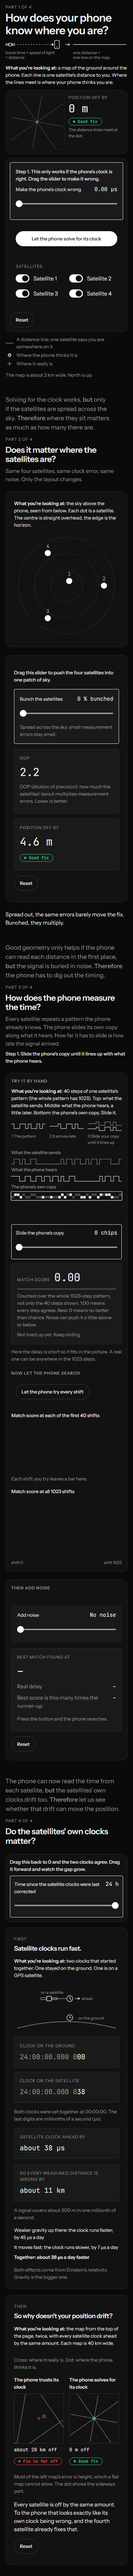
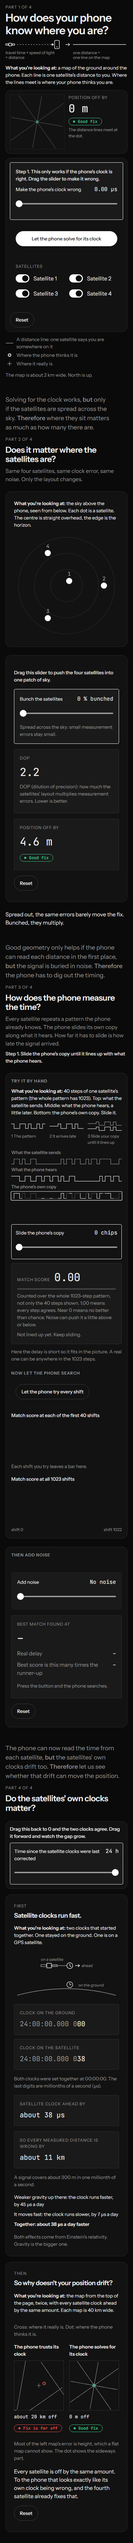
Icarus's fixes before merge: square-wave copy row, short score plots, phone load line
- The phone's own copy is drawn as a square wave like the two rows above it, one
  short line per step so each step can still be lit or dim.
- The two score plots are 60 px tall until the search runs, then grow to 96 and 120 px
  (no animation under reduced motion); Reset shrinks them again.
- Under the first screen's loading message: "The first visit can take up to a minute
  on a phone." Hidden once Python is ready.
- Tests for all three; annotations updated; after-screenshots retaken, plus a phone
  screenshot taken while loading.

diff --git a/web/step-signal.js b/web/step-signal.js
@@ -2,7 +2,7 @@
 // satellite's pattern by hand, then lets the phone try every shift. It draws and takes input;
 // the code, the received signal and every score come from Python (mechanism/signal.py).
 // The only arithmetic here is scaling numbers to pixels and one sign comparison per step
-// (is the copy's value on the same side of zero as the heard value?), which only picks a fill.
+// (is the copy's value on the same side of zero as the heard value?), which only picks a shade.
 import { whenPythonReady } from "./startup.js";
 import { say } from "./say.js";
 
@@ -57,8 +57,8 @@ const STYLE = `
 .signal-step .row-name { font: 500 13px var(--font-sans); fill: var(--text-muted); stroke: none; }
 .signal-step .sent { fill: none; stroke: var(--text-muted); stroke-width: 1.5; stroke-linejoin: miter; }
 .signal-step .received { fill: none; stroke: var(--text); stroke-width: 1.5; stroke-linejoin: miter; }
-.signal-step .cell { fill: var(--text); }
-.signal-step .cell.is-dim { fill: var(--text-muted); opacity: 0.4; }
+.signal-step .cell { fill: none; stroke: var(--text); stroke-width: 1.5; stroke-linecap: square; }
+.signal-step .cell.is-dim { stroke: var(--text-muted); opacity: 0.4; }
 .signal-step .copy-outline { fill: none; stroke: none; }
 .signal-step[data-guide="1"] .copy-outline { stroke: var(--accent); stroke-width: 1.5; }
 .signal-step .bracket { stroke: var(--text-muted); stroke-width: 1; fill: none; }
@@ -78,6 +78,10 @@ const STYLE = `
 .signal-step .plot-area .bar { fill: var(--text); }
 .signal-step .plot-full { height: 120px; }
 .signal-step .plot-close { height: 96px; }
+/* Short until the search runs, then they grow to full height. */
+.signal-step:not(.is-searched) .plot-full, .signal-step:not(.is-searched) .plot-close { height: 60px; }
+.signal-step .plot-area { transition: height 300ms ease; }
+.signal-step .plot-area svg, .signal-step [data-el="closeup-rest-wrap"] { height: 100%; }
 .signal-step .scores { fill: none; stroke: var(--text-muted); stroke-width: 1; vector-effect: non-scaling-stroke; }
 .signal-step [data-reveal="hidden"] { clip-path: inset(0 100% 0 0); }
 .signal-step [data-reveal="running"] { clip-path: inset(0 0 0 0); transition: clip-path var(--reveal-ms, 1000ms) linear; }
@@ -119,7 +123,7 @@ const STYLE = `
 .signal-step .btn:disabled, .signal-step input[type="range"]:disabled { opacity: 0.4; cursor: not-allowed; }
 .signal-step .btn:disabled:hover { border-color: var(--line-strong); }
 .signal-step input[type="range"] { touch-action: pan-y; }
-@media (prefers-reduced-motion: reduce) { .signal-step [data-reveal] { transition: none !important; } }
+@media (prefers-reduced-motion: reduce) { .signal-step [data-reveal], .signal-step .plot-area { transition: none !important; } }
 `;
 
 export function mountSignalStep(container) {
@@ -183,7 +187,7 @@ export function mountSignalStep(container) {
   function buildStaticParts() {
     const cells = [];
     for (let i = 0; i < signalConfig.windowChips; i += 1) {
-      cells.push(`<rect class="cell" x="${i * CHIP + 0.5}" width="${CHIP - 1}" height="${WAVE / signalConfig.receivedLimit}"/>`);
+      cells.push(`<path class="cell" d=""/>`);
     }
     el.copyCells.innerHTML = cells.join("");
     el.cells = [...el.copyCells.children];
@@ -250,6 +254,7 @@ export function mountSignalStep(container) {
       el.shift.value = shift;
       visited.clear();
       searched = false;
+      root.classList.remove("is-searched");
       guide = 1;
       el.msgSearch.textContent = "";
       el.bestDelay.textContent = "–";
@@ -321,6 +326,7 @@ export function mountSignalStep(container) {
   function search(atOnce) {
     if (!result) return;
     searched = true;
+    root.classList.add("is-searched"); // the two score plots grow to full height
     moveGuideTo(3);
     drawResult();
     drawCloseup();
@@ -465,17 +471,22 @@ export function mountSignalStep(container) {
     drawCopyRow();
   }
 
-  // The copy row: each step is a block, lit where its sign agrees with the heard value above it, dim where it does not.
+  // The copy row: a square wave like the rows above, drawn one step at a time so each step can be
+  // lit where its sign agrees with the heard value above it, and dim where it does not.
   function drawCopyRow() {
     if (!code || !received) return;
     const unit = WAVE / signalConfig.receivedLimit;
     let agree = 0;
+    let lastY = null;
     el.cells.forEach((cell, index) => {
       const value = copyValue(index);
       const lit = (value > 0) === (received[index] > 0);
       if (lit) agree += 1;
-      cell.setAttribute("y", value > 0 ? ROW_MID.copy - unit : ROW_MID.copy);
+      const y = ROW_MID.copy - value * unit;
+      const fromY = lastY === null ? y : lastY; // the step's upright edge starts at the previous step's height
+      cell.setAttribute("d", `M${index * CHIP},${fromY} V${y} H${(index + 1) * CHIP}`);
       cell.classList.toggle("is-dim", !lit);
+      lastY = y;
     });
     const x = shift * CHIP;
     el.bracket.style.display = shift === 0 ? "none" : "";

diff --git a/index.html b/index.html
@@ -174,6 +174,7 @@
         </div>
         <input id="clock" type="range" value="0" disabled>
         <p class="note" id="status" role="status" aria-live="polite">Loading the maths…</p>
+        <p class="note" id="load-note">The first visit can take up to a minute on a phone.</p>
       </div>
 
       <div class="stack guide-target" id="block-solve" style="gap: var(--s-2)">

diff --git a/web/first-screen.js b/web/first-screen.js
@@ -44,6 +44,7 @@ start();
 
 function start() {
   whenPythonReady(el.status, async (call) => {
+    $("load-note").hidden = true; // only needed while loading
     callPython = call;
     try {
       await buildScene();

diff --git a/tests/ui/test_signal_redesign.py b/tests/ui/test_signal_redesign.py
@@ -227,3 +227,38 @@ def test_looking_line_is_above_the_picture_and_nothing_overflows_at_phone_width(
     settle(page)
     assert page.evaluate("document.documentElement.scrollWidth <= window.innerWidth")
     assert site.errors == []
+
+
+# Icarus's two fixes before merging PR #83.
+COPY_POINTS = """() => [...document.querySelectorAll('#step-signal .cell')].map((cell) => cell.getAttribute('d'))"""
+SENT_HEIGHTS = """() => [...new Set(document.querySelector('#step-signal [data-el=sent-line]').getAttribute('points')
+  .split(' ').map((pair) => pair.split(',')[1]))].sort()"""
+
+
+def test_the_copy_row_is_a_square_wave_like_the_rows_above(open_page):
+    page = open_page().page
+    assert page.locator(f"{SIG} rect.cell").count() == 0  # no blocks
+    paths = page.evaluate(COPY_POINTS)
+    assert len(paths) == 40 and all(d.startswith("M") and " V" in d and " H" in d for d in paths)
+    # The copy at shift 0 is the pattern itself, so it uses the same two heights as the sent row, moved down to its own row.
+    copy_heights = sorted({float(d.split(" V")[1].split(" ")[0]) for d in paths})
+    sent_heights = sorted(float(y) for y in page.evaluate(SENT_HEIGHTS))
+    assert copy_heights[1] - copy_heights[0] == sent_heights[1] - sent_heights[0]
+    # Each step's upright edge starts where the step before it ended.
+    for before, after in zip(paths, paths[1:]):
+        assert before.split(" V")[1].split(" ")[0] == after.split(",")[1].split(" ")[0]
+
+
+PLOT_HEIGHTS = "() => [...document.querySelectorAll('#step-signal .plot-area')].map((node) => Math.round(node.getBoundingClientRect().height))"
+
+
+def test_score_plots_are_short_until_the_search_then_grow(open_page):
+    page = open_page().page
+    page.emulate_media(reduced_motion="reduce")  # no height animation, so the sizes can be read at once
+    assert page.evaluate(PLOT_HEIGHTS) == [60, 60]
+    press_search(page)
+    settle(page)
+    assert page.evaluate(PLOT_HEIGHTS) == [96, 120]
+    page.locator(el("reset")).click()
+    settle(page)
+    assert page.evaluate(PLOT_HEIGHTS) == [60, 60]

diff --git a/tests/ui/test_phone_layout.py b/tests/ui/test_phone_layout.py
@@ -167,3 +167,13 @@ def test_the_slider_stays_put_when_a_message_takes_over_the_hint_line(open_page)
     page.wait_for_timeout(600)
     assert page.locator("#msg-slider").text_content().startswith("Back to trusting")
     assert abs(box(page, "#clock")["top"] - start) <= 1
+
+
+def test_the_first_visit_note_shows_while_loading_and_goes_when_ready(open_page):
+    site = phone(open_page, cdn="cache", delay_ms=2000)  # the delay keeps Python loading while we look
+    page = site.page
+    page.wait_for_selector("#load-note", state="visible")
+    assert page.locator("#load-note").inner_text() == "The first visit can take up to a minute on a phone."
+    assert box(page, "#clock")["bottom"] <= SLIDER_LIMIT
+    site.wait_ready()
+    assert page.locator("#load-note").is_hidden()

diff --git a/docs/annotated/web/step-signal.js.md b/docs/annotated/web/step-signal.js.md
@@ -16,7 +16,7 @@ This file builds the third section of the page, "How does the phone measure the 
 ## In three lines
 1. When the page loads, `mountSignalStep` adds the section's HTML and style, waits for Python, and fetches the satellite's pattern once. After that, every change of the noise slider asks Python for the heard signal and for the score of every shift.
 2. Sliding the phone's copy (the slider, the keyboard, or dragging the row) does not call Python again. It only reads the score for that shift from the last answer. The search button reveals the scores of all shifts that Python had already worked out.
-3. The only arithmetic in JavaScript is turning values into pixel positions, one yes/no check per step (is the copy's value on the same side of zero as the heard value, which only decides how a block is shaded), and choosing "Found", "Barely found" or "Lost" by comparing numbers Python returned.
+3. The only arithmetic in JavaScript is turning values into pixel positions, one yes/no check per step (is the copy's value on the same side of zero as the heard value, which only decides how a step of the copy row is shaded), and choosing "Found", "Barely found" or "Lost" by comparing numbers Python returned.
 
 New to code? See [how to read code](../how-to-read-code.md). Ideas used here for the first time are explained where they appear.
 
@@ -29,9 +29,9 @@ New to code? See [how to read code](../how-to-read-code.md). Ideas used here for
 // satellite's pattern by hand, then lets the phone try every shift. It draws and takes input;
 // the code, the received signal and every score come from Python (mechanism/signal.py).
 // The only arithmetic here is scaling numbers to pixels and one sign comparison per step
-// (is the copy's value on the same side of zero as the heard value?), which only picks a fill.
+// (is the copy's value on the same side of zero as the heard value?), which only picks a shade.
 ```
-Five comments (lines starting with `//` are notes for people; the computer skips them). "Rung 3" is the third step of the page's story. `design.md` is the project's spec. They say that this file only draws and listens, that Python provides the pattern, the heard signal and every score, and that the only arithmetic here is scaling to pixels plus one check per step that only decides whether a block is drawn bright or dim. Nothing breaks without them.
+Five comments (lines starting with `//` are notes for people; the computer skips them). "Rung 3" is the third step of the page's story. `design.md` is the project's spec. They say that this file only draws and listens, that Python provides the pattern, the heard signal and every score, and that the only arithmetic here is scaling to pixels plus one check per step that only decides whether a step of the copy row is drawn bright or dim. Nothing breaks without them.
 
 ```js
 import { whenPythonReady } from "./startup.js";
@@ -258,14 +258,14 @@ The top wave (what the satellite sends): no fill, a grey line 1.5 units thick, w
 The middle wave (what the phone hears): the same but in the main text colour, so it stands out from the grey one.
 
 ```js
-.signal-step .cell { fill: var(--text); }
+.signal-step .cell { fill: none; stroke: var(--text); stroke-width: 1.5; stroke-linecap: square; }
 ```
-Each block of the phone's copy row is filled with the main text colour (bright).
+Each step of the phone's copy row is a short line (no fill), drawn like the two waves above it: 1.5 units thick in the main text colour (bright). `stroke-linecap: square` makes each line's ends stick out a little, so the corner where one step meets the next has no gap.
 
 ```js
-.signal-step .cell.is-dim { fill: var(--text-muted); opacity: 0.4; }
+.signal-step .cell.is-dim { stroke: var(--text-muted); opacity: 0.4; }
 ```
-A block that also has the class `is-dim` is grey and 40 percent solid (faded). Those are the steps where the copy disagrees with what the phone hears.
+A step that also has the class `is-dim` is grey and 40 percent solid (faded). Those are the steps where the copy disagrees with what the phone hears.
 
 ```js
 .signal-step .copy-outline { fill: none; stroke: none; }
@@ -356,7 +356,23 @@ Each bar of the close-up graph is filled with the text colour.
 .signal-step .plot-full { height: 120px; }
 .signal-step .plot-close { height: 96px; }
 ```
-The full graph's box is 120 px high and the close-up's is 96 px, the same as their pictures.
+The full graph's box is 120 px high and the close-up's is 96 px, the same as their pictures. These are the heights after the search.
+
+```js
+/* Short until the search runs, then they grow to full height. */
+.signal-step:not(.is-searched) .plot-full, .signal-step:not(.is-searched) .plot-close { height: 60px; }
+```
+Until the section has the class `is-searched` (`:not(...)` means "without"), both graph boxes are only 60 px high, so two mostly empty boxes do not take up the page. `search` adds the class and the reset button removes it.
+
+```js
+.signal-step .plot-area { transition: height 300ms ease; }
+```
+When the height changes, it changes smoothly over 300 ms instead of jumping.
+
+```js
+.signal-step .plot-area svg, .signal-step [data-el="closeup-rest-wrap"] { height: 100%; }
+```
+The pictures inside each box (and the box that wraps the close-up's bars) fill the box's height, so they shrink and grow with it. The pictures use `preserveAspectRatio="none"`, so they stretch to fit.
 
 ```js
 .signal-step .scores { fill: none; stroke: var(--text-muted); stroke-width: 1; vector-effect: non-scaling-stroke; }
@@ -544,9 +560,9 @@ When the mouse is over a disabled button, its outline does not change. A working
 A slider is an `input` of type `range`. On a touch screen, `pan-y` lets the finger scroll the page up and down when it starts on the slider, while left and right drags move the slider.
 
 ```js
-@media (prefers-reduced-motion: reduce) { .signal-step [data-reveal] { transition: none !important; } }
+@media (prefers-reduced-motion: reduce) { .signal-step [data-reveal], .signal-step .plot-area { transition: none !important; } }
 ```
-Some people set their device to avoid animation. This rule applies to them: the reveal's smooth change is switched off (`!important` makes sure this wins over the other rule). The JavaScript also skips the animation for them (see `startReveal`).
+Some people set their device to avoid animation. This rule applies to them: the reveal's smooth change and the graphs' growing are switched off (`!important` makes sure this wins over the other rule). The JavaScript also skips the animation for them (see `startReveal`).
 
 ```js
 `;
@@ -601,7 +617,7 @@ Makes a small helper called `find`. An arrow function (`(name) => ...`) is a sho
 ```
 Makes an object called `el` that holds every element the code will touch, each under a short name. Doing the search once here, instead of at every use, is quicker and keeps names in one place. In groups:
 - The top: `status` the "Loading the maths…" line, `hint` the guide hint, `clipNote` the warning that noise is cut off.
-- The rows picture: `rows` the whole drawing, `sentLine` and `receivedLine` the two waves, `copyCells` the group that will hold the 40 blocks of the copy row, `bracket`, `bracketLine` and `bracketText` the bracket under the copy row and its words, `copyHit` the invisible rectangle that catches dragging.
+- The rows picture: `rows` the whole drawing, `sentLine` and `receivedLine` the two waves, `copyCells` the group that will hold the 40 steps of the copy row, `bracket`, `bracketLine` and `bracketText` the bracket under the copy row and its words, `copyHit` the invisible rectangle that catches dragging.
 - The hand controls: `shift` the slider that slides the copy, `shiftValue` its words, `handScore` the match score, `meter` the bar under it, `handSentence` the sentence ("Lined up..." or "Not lined up yet...").
 - The search: `search` the button, `msgSearch` its message line.
 - The close-up graph: `closeupTries` holds the bars for shifts tried by hand, `closeupRest` the bars for all 40 shifts after the search, and `closeupRestWrap` is the box around the latter that the reveal animation clips.
@@ -747,7 +763,7 @@ Starts the function that builds the parts of the rows picture that are the same 
 ```js
     const cells = [];
 ```
-An empty list to collect the blocks of the copy row.
+An empty list to collect the steps of the copy row.
 
 ```js
     for (let i = 0; i < signalConfig.windowChips; i += 1) {
@@ -755,9 +771,9 @@ An empty list to collect the blocks of the copy row.
 A loop that counts `i` from 0 up to 39 (while `i` is less than 40, adding 1 each time round).
 
 ```js
-      cells.push(`<rect class="cell" x="${i * CHIP + 0.5}" width="${CHIP - 1}" height="${WAVE / signalConfig.receivedLimit}"/>`);
+      cells.push(`<path class="cell" d=""/>`);
 ```
-For each chip, adds the text of one block (an SVG `rect`, a rectangle) to the list. It sits at `i * 10 + 0.5` units from the left and is `10 - 1 = 9` wide, so that there is a small gap between neighbours. Its height is `18 / 2 = 9`. The up-or-down position is set later, because it depends on whether the copy's value is +1 or -1.
+For each chip, adds the text of one empty SVG `path` (a line drawn from a list of moves in its `d` attribute) to the list. The moves are filled in later by `drawCopyRow`, because where the line goes depends on the copy's values and the shift.
 
 ```js
     }
@@ -772,7 +788,7 @@ Joins the 40 texts with nothing between them and puts them into the copy row's g
 ```js
     el.cells = [...el.copyCells.children];
 ```
-Takes the 40 block elements just made and keeps them in a list called `el.cells` (`...` spreads the group's children into a plain list). `drawCopyRow` goes through this list.
+Takes the 40 step elements just made and keeps them in a list called `el.cells` (`...` spreads the group's children into a plain list). `drawCopyRow` goes through this list.
 
 ```js
     el.trueDelay.textContent = "–";
@@ -1010,9 +1026,10 @@ Puts the phone's copy back at 0 and moves its slider there.
 ```js
       visited.clear();
       searched = false;
+      root.classList.remove("is-searched");
       guide = 1;
 ```
-Forgets the shifts tried by hand, forgets that the search was pressed, and sends the guide back to step 1.
+Forgets the shifts tried by hand, forgets that the search was pressed, takes away the class that makes the two graphs tall (so they shrink back to 60 px), and sends the guide back to step 1.
 
 ```js
       el.msgSearch.textContent = "";
@@ -1226,8 +1243,9 @@ If there is no result from Python yet, do nothing.
 
 ```js
     searched = true;
+    root.classList.add("is-searched"); // the two score plots grow to full height
 ```
-Remembers that the search has been pressed. The drawing functions use this to show all the shifts.
+Remembers that the search has been pressed. The drawing functions use this to show all the shifts. It also gives the section the class `is-searched`, so the two graph boxes grow from 60 px to their full height.
 
 ```js
     moveGuideTo(3);
@@ -1743,9 +1761,10 @@ Draws the bottom row too.
 Closes `drawRows`.
 
 ```js
-  // The copy row: each step is a block, lit where its sign agrees with the heard value above it, dim where it does not.
+  // The copy row: a square wave like the rows above, drawn one step at a time so each step can be
+  // lit where its sign agrees with the heard value above it, and dim where it does not.
 ```
-A comment. Each of the 40 steps of the copy row is a block. A block is bright where the copy and the heard signal are on the same side of zero (both positive, or both not), and dim where they disagree. When the copy is lined up, most blocks are bright; when it is far off, about half are.
+A comment. The copy row is a square wave, like the two rows above it, but it is drawn as 40 separate short lines, one per step, so that each step can have its own shade. A step is bright where the copy and the heard signal are on the same side of zero (both positive, or both not), and dim where they disagree. When the copy is lined up, most steps are bright; when it is far off, about half are.
 
 ```js
   function drawCopyRow() {
@@ -1760,17 +1779,18 @@ If the pattern or the heard signal has not arrived yet, there is nothing to draw
 ```js
     const unit = WAVE / signalConfig.receivedLimit;
 ```
-The block height again: 18 / 2 = 9.
+How far the wave goes above or below its middle line: 18 / 2 = 9 units, the same as the row of what the satellite sends.
 
 ```js
     let agree = 0;
+    let lastY = null;
 ```
-A counter for how many steps agree. It starts at 0.
+A counter for how many steps agree, starting at 0, and `lastY`, the height where the previous step ended. It starts as `null` (nothing), because the first step has no step before it.
 
 ```js
     el.cells.forEach((cell, index) => {
 ```
-Goes through the 40 blocks, one at a time.
+Goes through the 40 steps, one at a time.
 
 ```js
       const value = copyValue(index);
@@ -1788,14 +1808,29 @@ Compares two yes/no answers: is the copy's value above 0, and is the heard value
 If it agrees, add 1 to the counter.
 
 ```js
-      cell.setAttribute("y", value > 0 ? ROW_MID.copy - unit : ROW_MID.copy);
+      const y = ROW_MID.copy - value * unit;
 ```
-Places the block. For +1 it sits above the middle line (its top at 162 - 9 = 153, so it fills from 153 to 162). For -1 it sits below (from 162 to 171).
+The height of this step. The copy row's middle line is at 162 (in an SVG picture, smaller numbers are higher up). For +1 the step is at 162 - 9 = 153, above the line; for -1 it is at 162 + 9 = 171, below it.
+
+```js
+      const fromY = lastY === null ? y : lastY; // the step's upright edge starts at the previous step's height
+```
+Where this step's line starts. For the first step there is no previous step (`lastY` is `null`), so it starts at its own height. Otherwise it starts at the height where the previous step ended, so the upright edge joins the two.
+
+```js
+      cell.setAttribute("d", `M${index * CHIP},${fromY} V${y} H${(index + 1) * CHIP}`);
+```
+Writes the step's moves into its `d` attribute: `M` moves to the step's left edge (`index * 10`) at the previous height, `V` draws straight up or down to this step's height (when the value did not change, this line has no length), and `H` draws across to the step's right edge (`(index + 1) * 10`). Worked example: step 3 with the previous step at +1 and this one at -1 gives `M30,153 V171 H40`, a drop from 153 to 171 and then a line across to 40.
 
 ```js
       cell.classList.toggle("is-dim", !lit);
 ```
-`toggle` adds the class `is-dim` when the second value is true and removes it when it is false. So the block is dim exactly when it is not lit.
+`toggle` adds the class `is-dim` when the second value is true and removes it when it is false. So the step is dim exactly when it is not lit.
+
+```js
+      lastY = y;
+```
+Remembers this step's height for the next step's upright edge.
 
 ```js
     });

diff --git a/docs/annotated/web/first-screen.js.md b/docs/annotated/web/first-screen.js.md
@@ -177,9 +177,10 @@ A comment used as a heading to group the functions that follow. The rows of dash
 ```js
 function start() {
   whenPythonReady(el.status, async (call) => {
+    $("load-note").hidden = true; // only needed while loading
     callPython = call;
 ```
-Starts the function `start`. It calls `whenPythonReady`, giving it two things: the status line (where loading words and errors are shown) and a function to run when Python is ready. That second function is written `async (call) => { ... }`. `async` means it may pause to wait for slow things. The first line inside stores the received `call` function in `callPython`, so the rest of the file can ask Python for things.
+Starts the function `start`. It calls `whenPythonReady`, giving it two things: the status line (where loading words and errors are shown) and a function to run when Python is ready. That second function is written `async (call) => { ... }`. `async` means it may pause to wait for slow things. The first line inside hides the line "The first visit can take up to a minute on a phone." (setting `hidden` to true takes it off the page), since loading is over. The next line stores the received `call` function in `callPython`, so the rest of the file can ask Python for things.
 
 ```js
     try {

diff --git a/docs/annotated/index.html.md b/docs/annotated/index.html.md
@@ -809,6 +809,11 @@ The slider itself: an `<input>` of `type="range"`, a draggable bar. `value="0"` 
 The status line, shown first: `Loading the maths…`. It has moved from the top of the controls card to just under the slider. The code changes it while Python loads and shows failure messages here. When it is empty it takes no room (see the `#status:empty` rule above).
 
 ```html
+        <p class="note" id="load-note">The first visit can take up to a minute on a phone.</p>
+```
+A second line under the status line, added at Icarus's request: the first load downloads Python and numpy, and on phones (WebKit, Safari's engine) a measured first load took a median of about 35 seconds. It is not a live region, because it never changes. `start()` in [`web/first-screen.js`](web/first-screen.js.md) hides it once Python is ready.
+
+```html
       </div>
 ```
 Closes the slider block.
